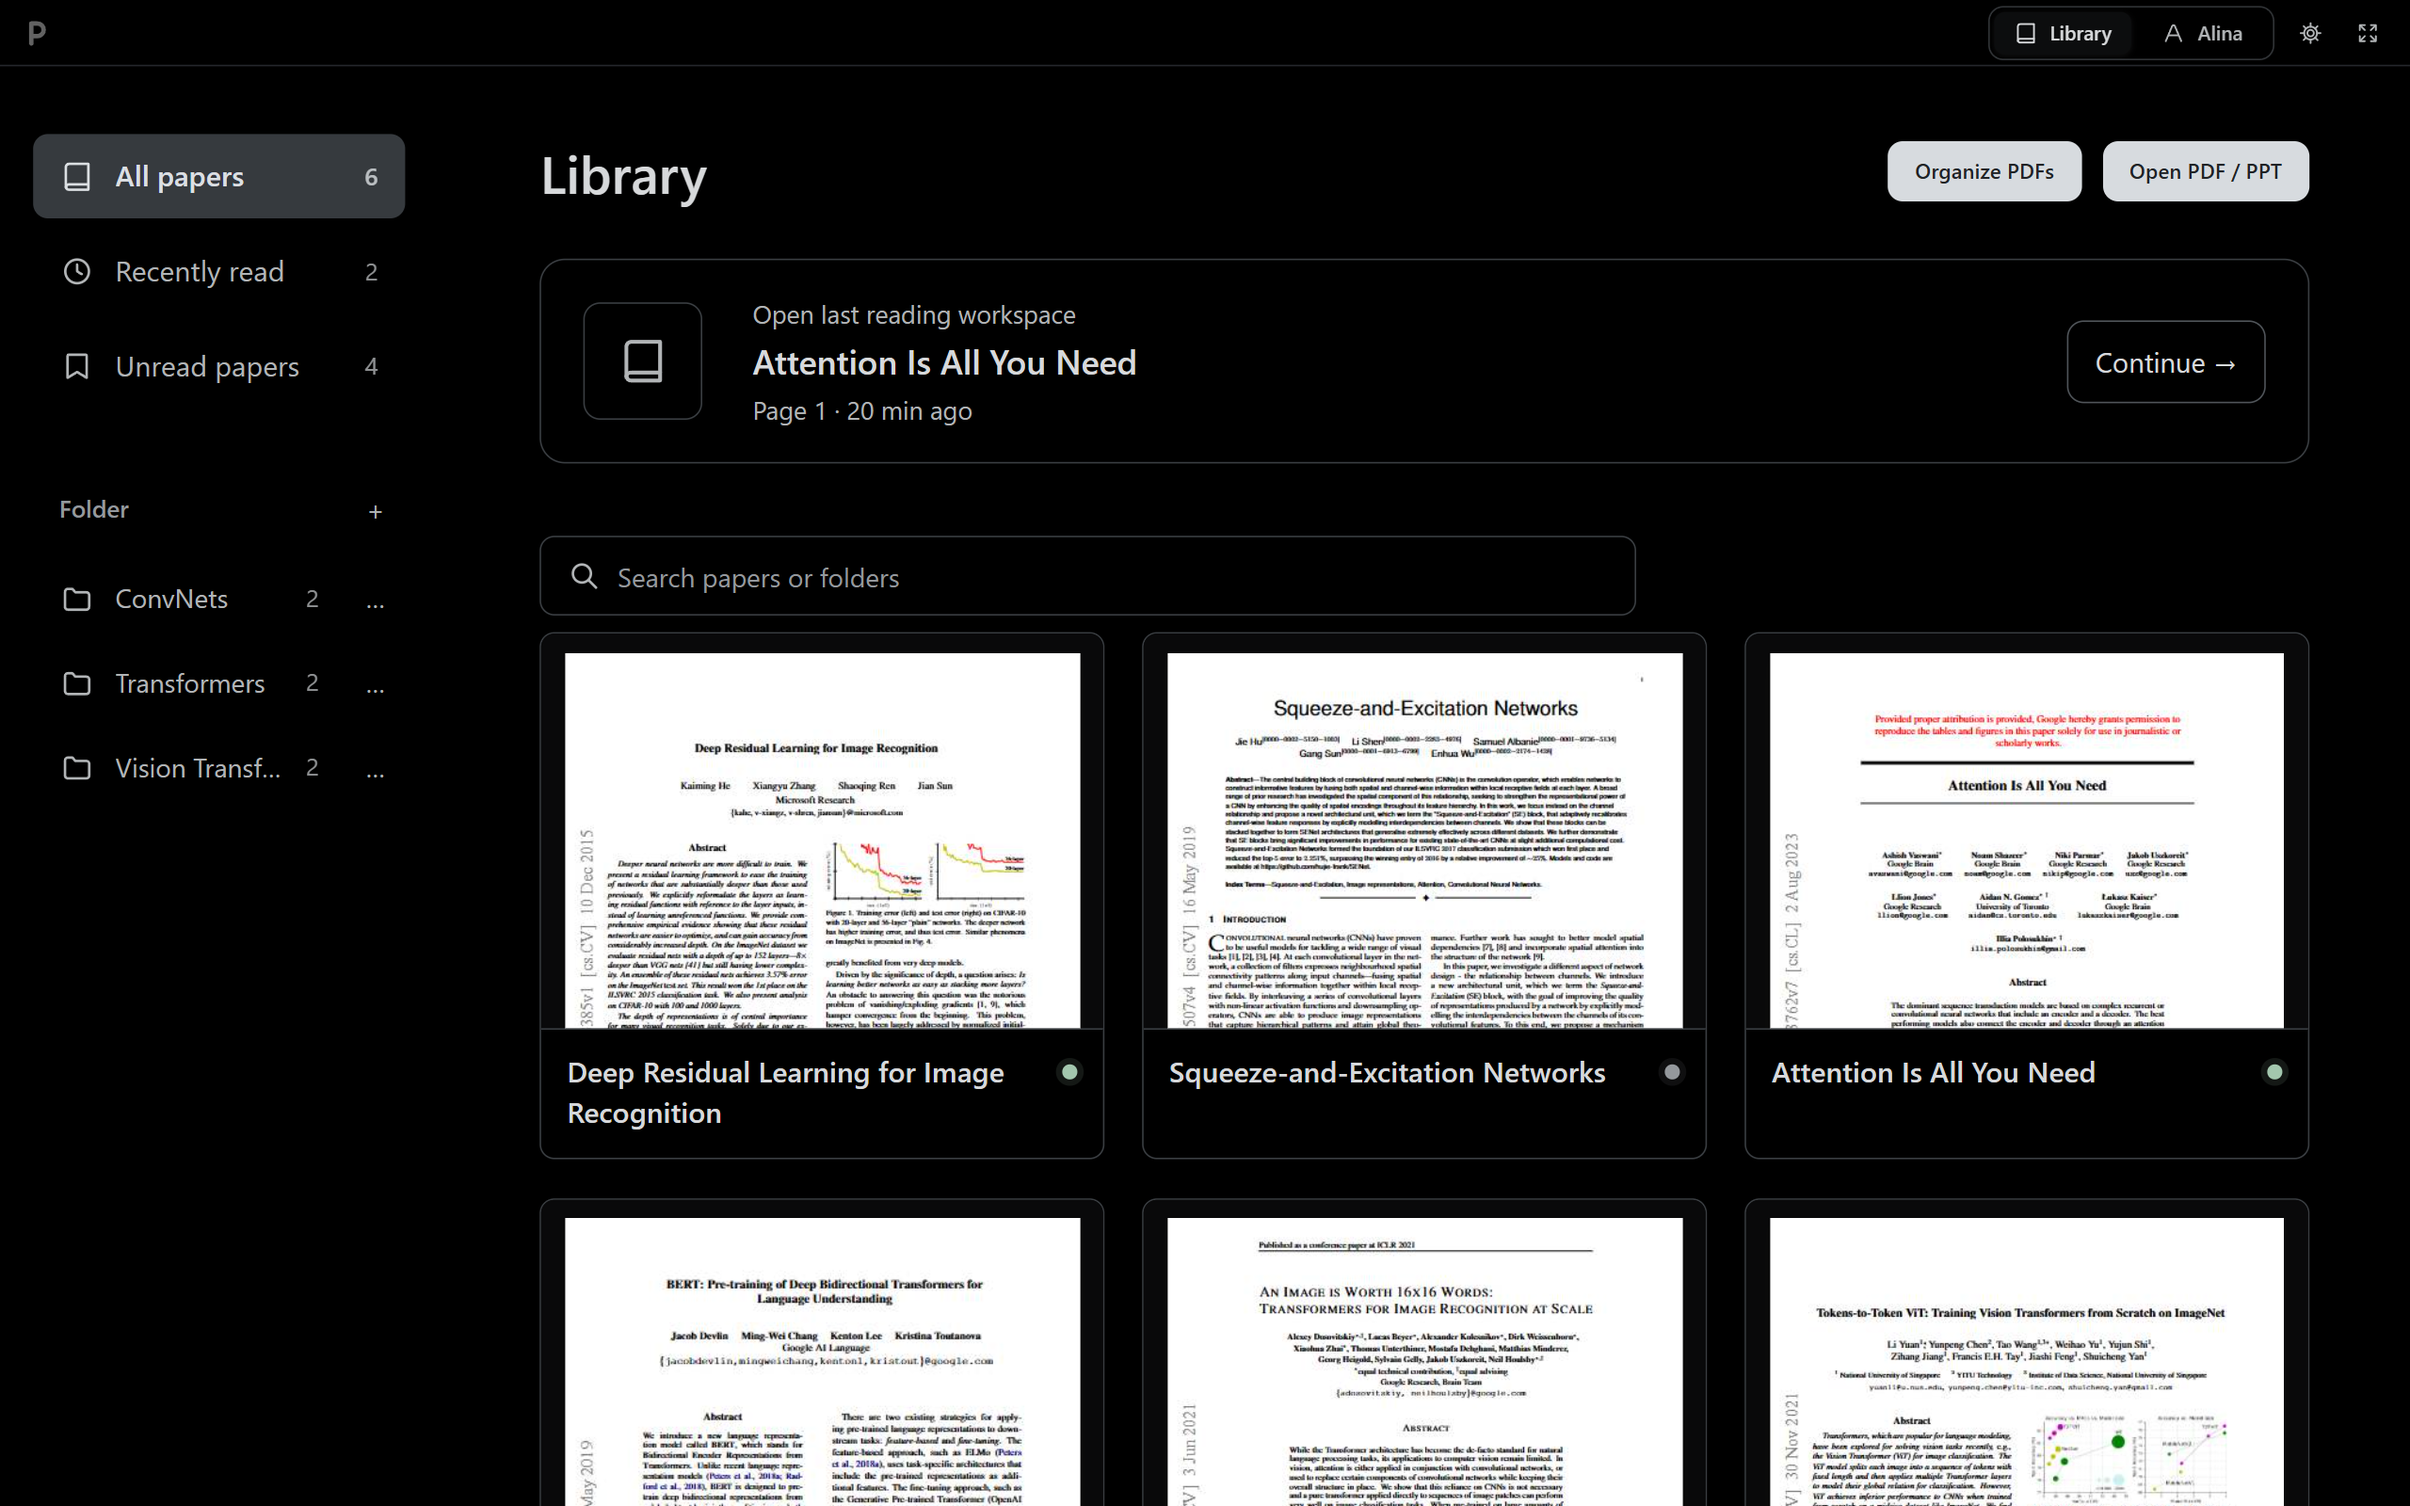
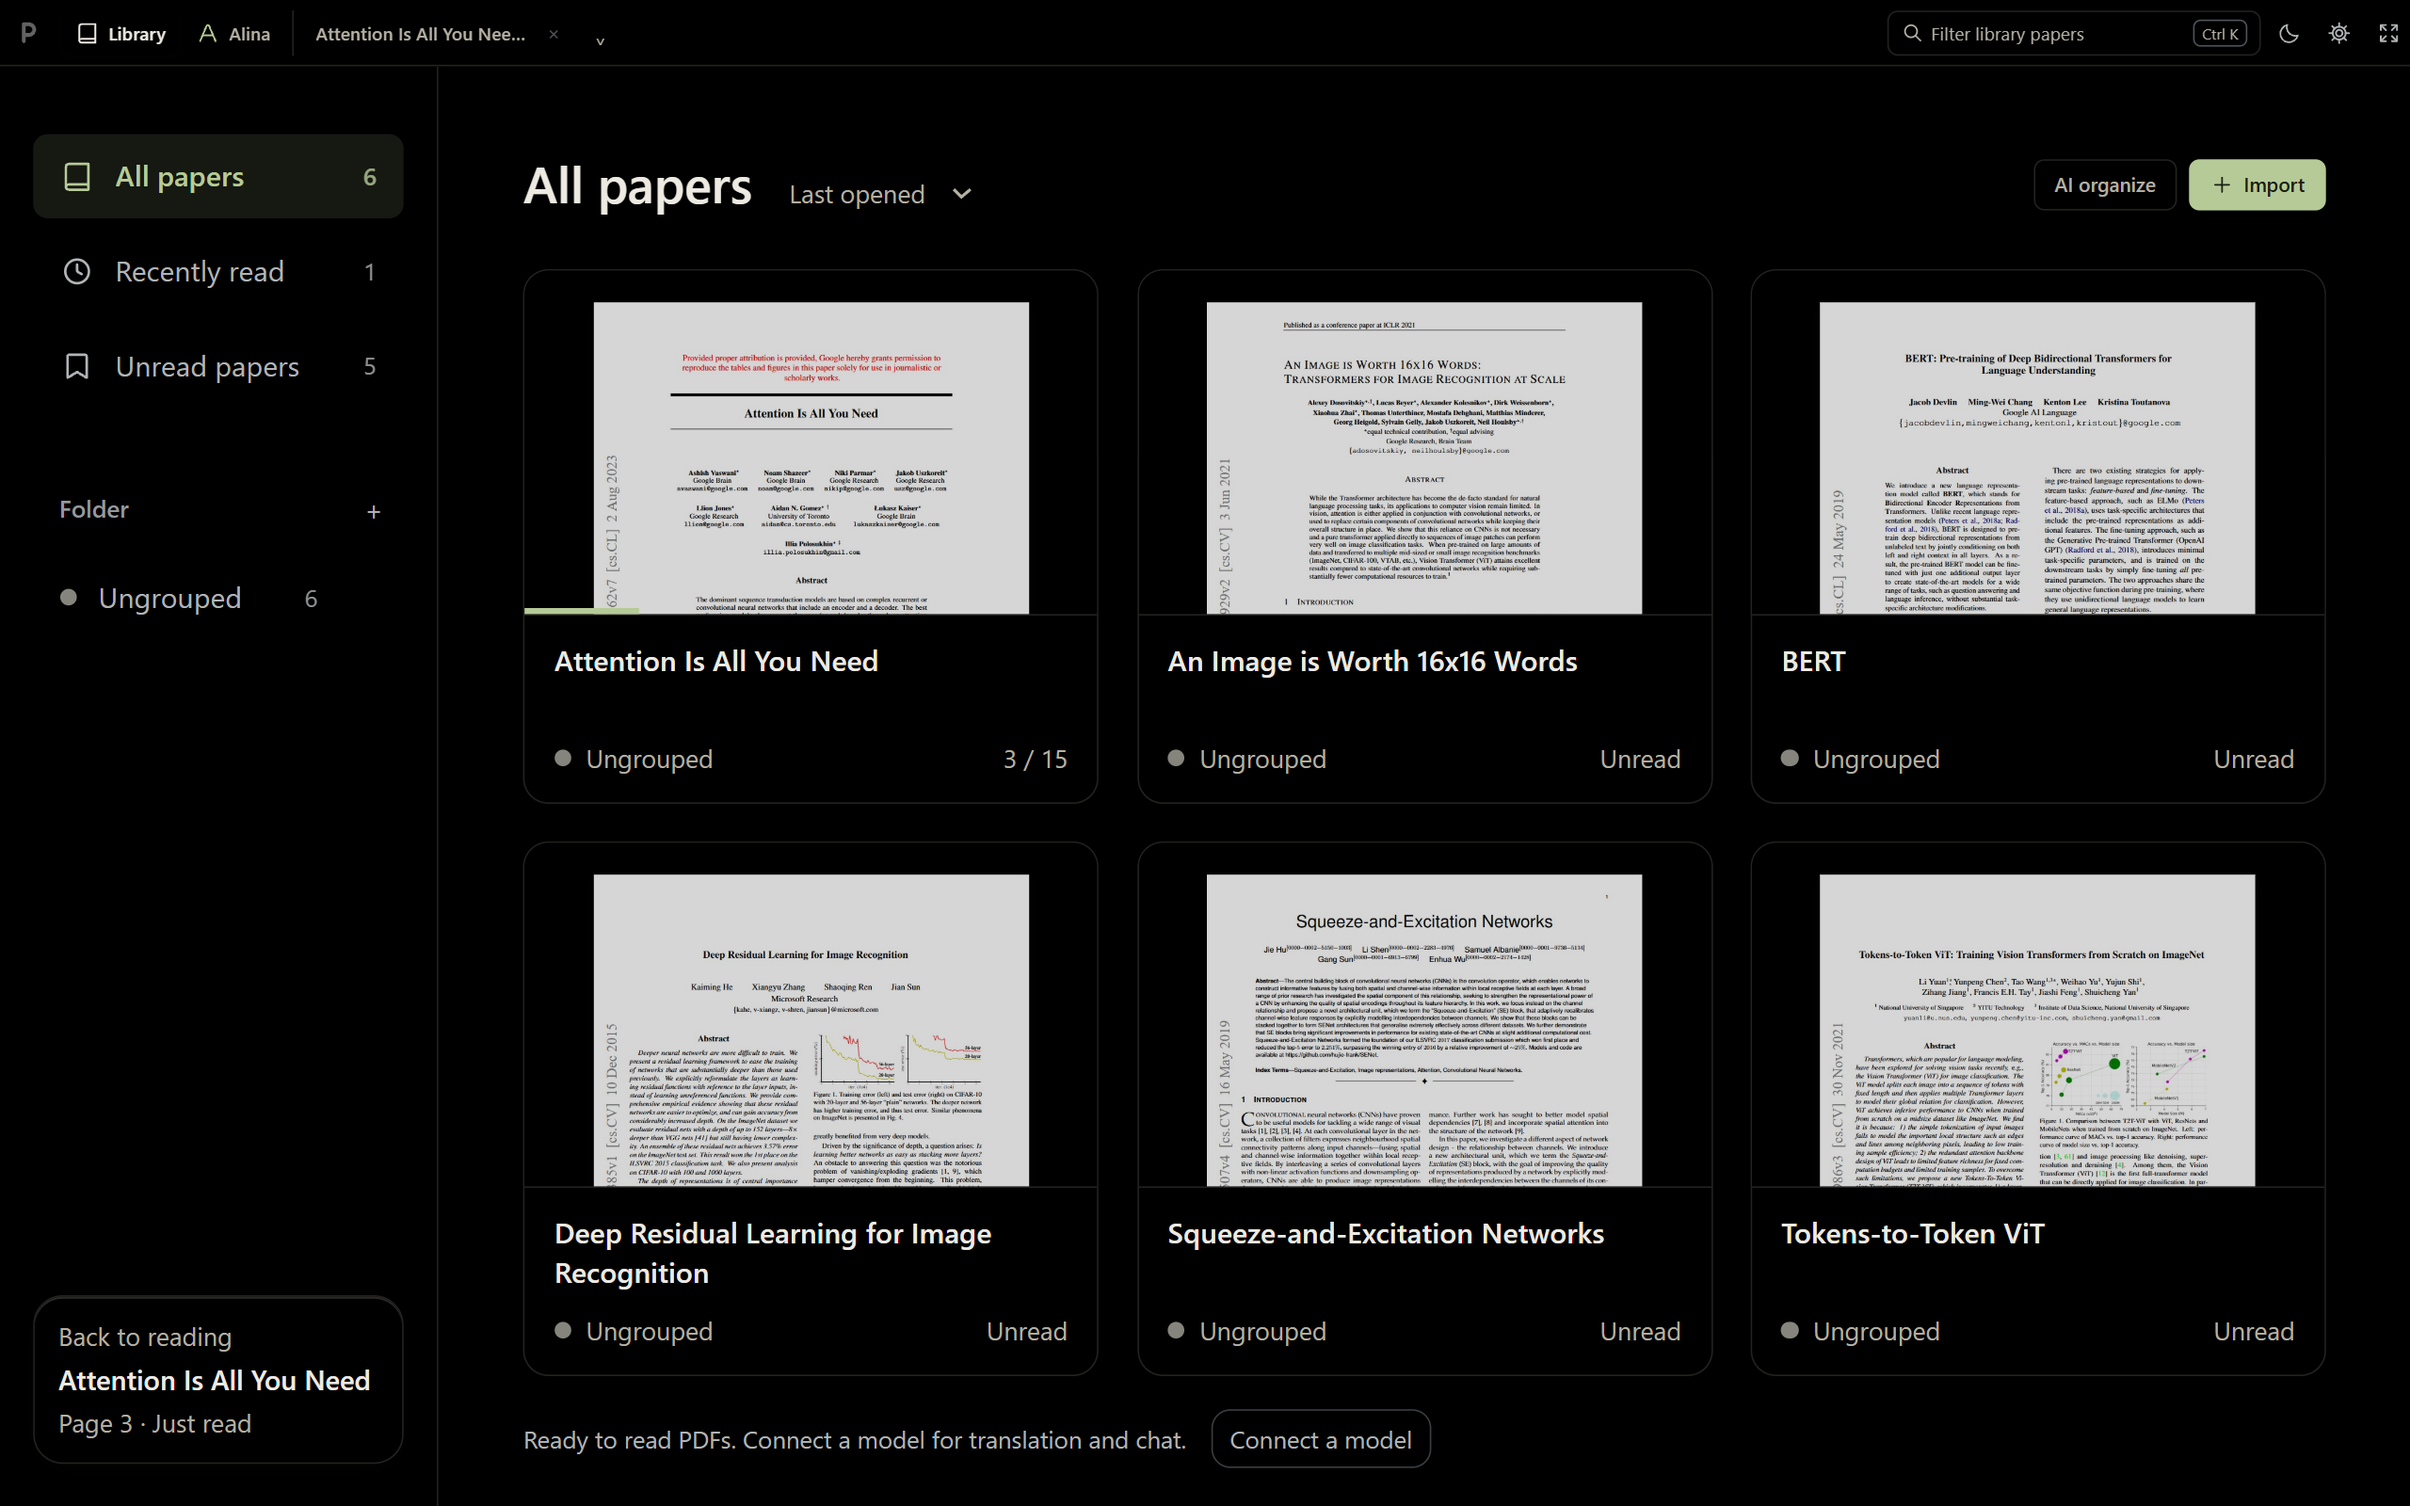
docs: refresh workspace screenshots for v1.4.6

diff --git a/docs/assets/README.md b/docs/assets/README.md
@@ -1,19 +1,26 @@
 # 界面预览
 
-[返回首页](../../README.md)
+[中文首页](../../README.md) · [English home](../../README.en.md)
 
-[中文项目海报](prt-overview-zh.png) 用正态分布曲线举例说明截图提问与页码引用。下方为实际界面截图。
+首页的六张截图于 2026-11-21 按 **v1.4.6** 重新截取，尺寸为 2560 × 1600（16:10），分别展示简体中文与 English 的书架、Alina 首页和阅读区。
 
-中英文首页的六张图片均截自桌面程序的黑色主题，尺寸为 2560 × 1600（16:10）。书架缩略图取自六篇公开论文的 PDF 首页；Alina 输入框展示对两篇视觉 Transformer 论文的示例提问；阅读区展示《Attention Is All You Need》第 3 页的 Figure 1，旁边是预先编写的图解。
+| 工作区 | 中文 | English |
+| --- | --- | --- |
+| 书架 | [Library](library-dark-16x10-zh.png) | [Library](library-dark-16x10-en.png) |
+| Alina | [Alina](alina-dark-16x10-zh.png) | [Alina](alina-dark-16x10-en.png) |
+| 阅读区 | [Reader](reader-dark-16x10-zh.png) | [Reader](reader-dark-16x10-en.png) |
 
-截图书架中的论文可从 arXiv 获取：[Attention Is All You Need](https://arxiv.org/abs/1706.03762)、[ViT](https://arxiv.org/abs/2010.11929)、[Tokens-to-Token ViT](https://arxiv.org/abs/2101.11986)、[ResNet](https://arxiv.org/abs/1512.03385)、[Squeeze-and-Excitation Networks](https://arxiv.org/abs/1709.01507)、[BERT](https://arxiv.org/abs/1810.04805)。
+截图使用独立资料目录运行已发布的 Windows 程序，由浏览器加载其内嵌前端并截图；已核对内嵌前端与发布源码一致。深色主题、工作区和 PDF 均由真实应用渲染，不是界面设计稿。截图不包含私人论文库、配置、密钥或私人会话，也未调用模型服务。
 
-以下为 v1.2.5 的界面与主题截图。
+书架封面来自以下公开论文的原始 PDF 首页，论文版权属于各自权利人，原 PDF 不随仓库分发：
 
-- **首页：** `home-glass.png`、`home-dark.png`、`home-english.png` 由 v1.2.5 桌面程序的内嵌前端生成。使用独立合成书架，文件名用于展示分类、标题补全与搜索，阅读页码和时间是演示数据，不是私人阅读记录。可用 `node test/capture-home-showcase.mjs` 重新生成。
+- [Attention Is All You Need](https://arxiv.org/abs/1706.03762)
+- [An Image is Worth 16x16 Words](https://arxiv.org/abs/2010.11929)
+- [Tokens-to-Token ViT](https://arxiv.org/abs/2101.11986)
+- [Deep Residual Learning for Image Recognition](https://arxiv.org/abs/1512.03385)
+- [Squeeze-and-Excitation Networks](https://arxiv.org/abs/1709.01507)
+- [BERT](https://arxiv.org/abs/1810.04805)
 
-- **论文：** Ashish Vaswani et al., *Attention Is All You Need*, 2017，[arXiv:1706.03762](https://arxiv.org/abs/1706.03762)。透光与米宣截图展示第 3 页的 Transformer 结构图，深色展示第 1 页的标题与摘要。论文版权属于其权利人，原 PDF 未提交到本仓库。
-- **问答：** 为展示公式与回答排版而编写的演示内容，通过应用现有渲染入口呈现，不代表一次实测模型回答。
-- **译文卡片：** `translation-liquid.png` 与 `translation-frosted.png` 展示桌面内嵌前端的两种材质，使用公开论文和演示译文，未请求模型服务。阅读区及卡片截图可用 `node test/capture-showcase.mjs --pdf <公开论文路径>` 重现，英文阅读截图追加 `--en`。
-- **数据：** 截图不包含私人论文库、配置、密钥或会话。
-- **版本：** 首页与阅读区截图均已按 v1.2.5 更新，展示微暖透光、悬浮纸面、米宣、深色及双语界面。
+阅读区展示《Attention Is All You Need》第 3 页 Figure 1。右侧问答是预先编写、通过应用现有渲染入口展示的示例，不代表模型实测回答。阅读进度与 Alina 中的会话记录均来自本次截图演示。
+
+本目录中的其他主题截图与旧海报是历史素材，不代表 v1.4.6；项目首页已移除旧海报入口，仅使用上表六张当前截图。

diff --git a/README.en.md b/README.en.md
@@ -15,7 +15,7 @@ prt is a local PDF reader for Windows with built-in AI chat. Drop an entire cour
 
 </div>
 
-## Three workspaces in dark mode
+## Three workspaces · v1.4.6 in dark mode
 
 ![Library with folders, search, and recently read papers](docs/assets/library-dark-16x10-en.png)
 
